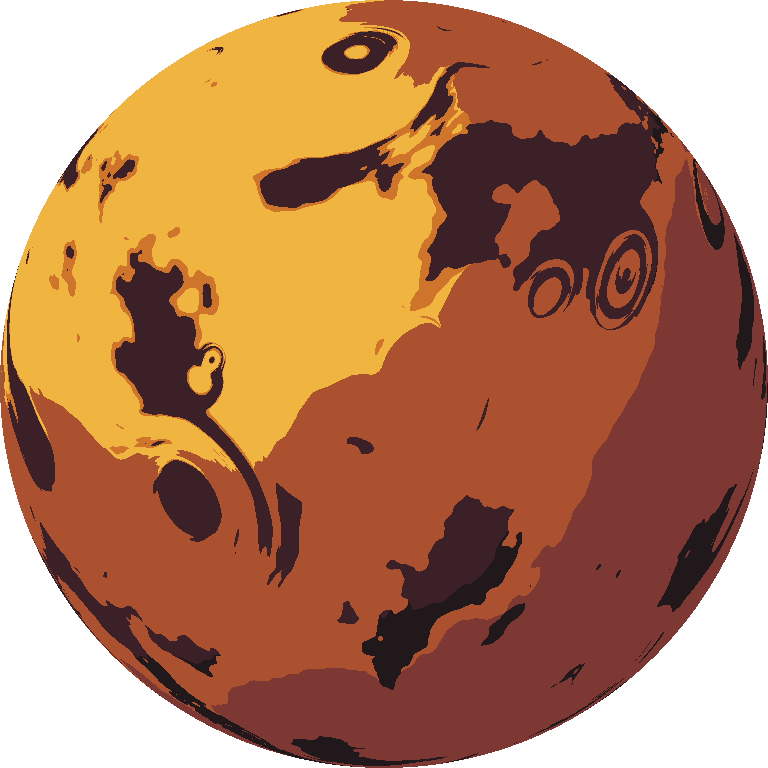
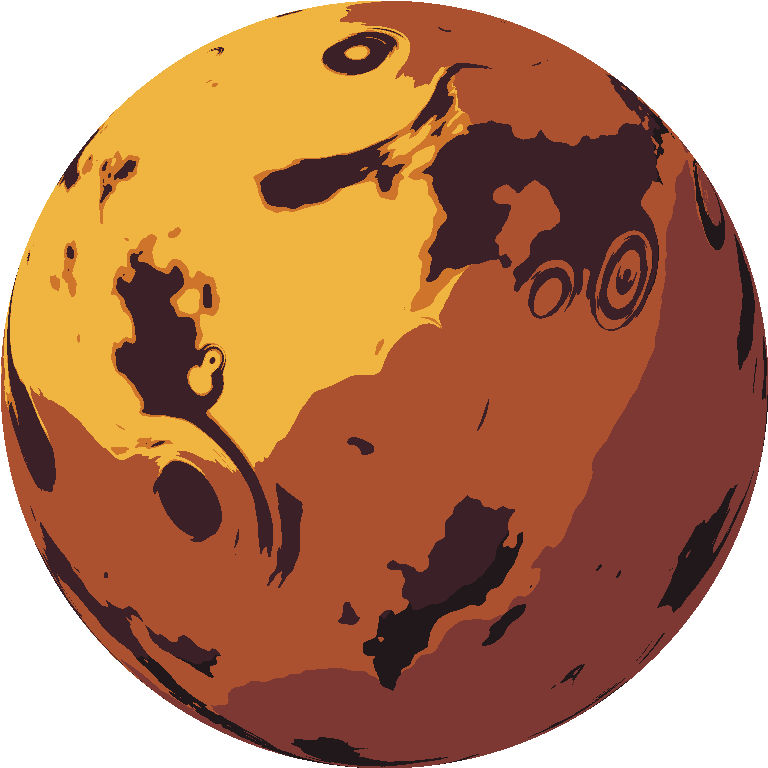
Morning site update 2026-09-22

diff --git a/site.js b/site.js
@@ -1,52 +1,14 @@
-const planetVideo = document.querySelector(".planet-video");
+const planet = document.querySelector(".planet-space picture");
 
-if (planetVideo && !matchMedia("(prefers-reduced-motion: reduce)").matches) {
-  const rotationSpeed = Number(planetVideo.dataset.speed) || 4;
+if (planet && !matchMedia("(prefers-reduced-motion: reduce)").matches) {
   const clockKey = "pixel-planet-started-at";
   let startedAt = Number(sessionStorage.getItem(clockKey));
-
   if (!Number.isFinite(startedAt) || startedAt <= 0 || startedAt > Date.now()) {
     startedAt = Date.now();
     sessionStorage.setItem(clockKey, String(startedAt));
   }
-  const elapsed = (Date.now() - startedAt) / 1000 * rotationSpeed;
-
-  const startPlanet = () => {
-    planetVideo.classList.add("is-ready");
-    planetVideo.play().catch(() => {});
-  };
-
-  planetVideo.addEventListener("loadedmetadata", () => {
-    if (Number.isFinite(planetVideo.duration) && planetVideo.duration > 0) {
-      const resumeAt = elapsed % planetVideo.duration;
-      if (resumeAt > 0.05) {
-        planetVideo.addEventListener("seeked", startPlanet, { once: true });
-        planetVideo.currentTime = resumeAt;
-        return;
-      }
-    }
-    startPlanet();
-  }, { once: true });
-
-  planetVideo.addEventListener("error", () => planetVideo.classList.add("is-error"), { once: true });
-  planetVideo.playbackRate = rotationSpeed;
-  planetVideo.preload = "auto";
-  planetVideo.src = planetVideo.dataset.src;
-
-  document.addEventListener("visibilitychange", () => {
-    if (document.hidden) {
-      planetVideo.pause();
-      return;
-    }
-    if (!Number.isFinite(planetVideo.duration) || planetVideo.duration <= 0) return;
-    const resumeAt = ((Date.now() - startedAt) / 1000 * rotationSpeed) % planetVideo.duration;
-    if (Math.abs(planetVideo.currentTime - resumeAt) > 0.25) {
-      planetVideo.addEventListener("seeked", startPlanet, { once: true });
-      planetVideo.currentTime = resumeAt;
-      return;
-    }
-    startPlanet();
-  });
+  const phase = (Date.now() - startedAt) % 300000;
+  planet.style.animationDelay = `${-phase / 1000}s`;
 }
 
 document.querySelectorAll(".markdown-content h2, .markdown-content h3").forEach((heading, index) => {

diff --git a/style.css b/style.css
@@ -104,7 +104,7 @@ footer { margin-top: 3rem; padding-top: 1rem; border-top: 1px solid #59606b; }
   content: "";
 }
 .space.dim-stars .pixel-star, .space.dim-stars::before { opacity: .18; }
-.space picture, .space .planet-video {
+.space picture {
   position: absolute;
   z-index: 4;
   left: -35vw;
@@ -114,11 +114,13 @@ footer { margin-top: 3rem; padding-top: 1rem; border-top: 1px solid #59606b; }
   overflow: hidden;
   border-radius: 50%;
 }
-.space .planet-video { opacity: 0; image-rendering: pixelated; transition: opacity .15s linear; }
-.space .planet-video.is-ready { opacity: 1; }
-.space .planet-video.is-error { display: none; }
-.space .planet-video.is-error + picture { display: block; }
-.space picture { display: none; }
+.space picture {
+  display: block;
+  image-rendering: pixelated;
+  animation: planet-spin 300s linear infinite;
+  will-change: transform;
+}
+@keyframes planet-spin { to { transform: rotate(360deg); } }
 .space img {
   display: block;
   width: 100%;
@@ -128,15 +130,14 @@ footer { margin-top: 3rem; padding-top: 1rem; border-top: 1px solid #59606b; }
 }
 main, header, footer { text-shadow: 0 1px 4px #000; }
 @media (prefers-reduced-motion: reduce) {
-  .space .planet-video { display: none; }
-  .space picture { display: block; }
+  .space picture { animation: none; }
 }
 @media (max-width: 800px) {
-  .space picture, .space .planet-video { left: -38vw; bottom: -28vh; width: 90vw; }
+  .space picture { left: -38vw; bottom: -28vh; width: 90vw; }
 }
 @media (max-width: 600px) {
   body { padding: 1rem 1rem 2rem; }
   .top-nav { grid-template-columns: repeat(3, minmax(0, 1fr)); }
   h1 { font-size: 1.9rem; }
-  .space picture, .space .planet-video { left: -42vw; bottom: -25vh; width: 95vw; }
+  .space picture { left: -42vw; bottom: -25vh; width: 95vw; }
 }

diff --git a/about.html b/about.html
@@ -5,8 +5,8 @@
   <meta name="viewport" content="width=device-width, initial-scale=1">
   <meta name="theme-color" content="#000000">
   <title>About — Beneke’s corner of the web</title>
-  <link rel="stylesheet" href="style.css?v=7f70fd434d64">
-  <script src="site.js?v=7f70fd434d64" defer></script>
+  <link rel="stylesheet" href="style.css?v=c2fdd2051d17">
+  <script src="site.js?v=c2fdd2051d17" defer></script>
 </head>
 <body>
   <div class="space planet-space planet-original" aria-hidden="true">
@@ -17,17 +17,15 @@
 <span class="pixel-star star-e"></span>
 <span class="pixel-star star-f"></span>
 <span class="pixel-star star-g"></span>
-    <video class="planet-video" data-src="assets/pixel-planet.webm?v=7f70fd434d64" data-speed="4" muted loop playsinline preload="auto"
-      poster="assets/pixel-planet.png?v=7f70fd434d64" aria-hidden="true"></video>
-    <picture><img src="assets/pixel-planet.gif?v=7f70fd434d64" alt=""></picture>
+    <picture><img src="assets/pixel-planet.png?v=c2fdd2051d17" alt=""></picture>
   </div>
   <nav class="top-nav" aria-label="Main navigation">
-    <a href="about.html?v=7f70fd434d64" aria-current="page">About</a>
-<a href="projects.html?v=7f70fd434d64">Projects</a>
-<a href="blog.html?v=7f70fd434d64">Blog</a>
-<a href="teaching.html?v=7f70fd434d64">Teaching</a>
-<a href="music.html?v=7f70fd434d64">Music</a>
-<a href="links.html?v=7f70fd434d64">Links</a>
+    <a href="about.html?v=c2fdd2051d17" aria-current="page">About</a>
+<a href="projects.html?v=c2fdd2051d17">Projects</a>
+<a href="blog.html?v=c2fdd2051d17">Blog</a>
+<a href="teaching.html?v=c2fdd2051d17">Teaching</a>
+<a href="music.html?v=c2fdd2051d17">Music</a>
+<a href="links.html?v=c2fdd2051d17">Links</a>
   </nav>
   <main class="markdown-content">
     <h1 id="about">About</h1>

diff --git a/projects.html b/projects.html
@@ -5,8 +5,8 @@
   <meta name="viewport" content="width=device-width, initial-scale=1">
   <meta name="theme-color" content="#000000">
   <title>Projects — Beneke’s corner of the web</title>
-  <link rel="stylesheet" href="style.css?v=7f70fd434d64">
-  <script src="site.js?v=7f70fd434d64" defer></script>
+  <link rel="stylesheet" href="style.css?v=c2fdd2051d17">
+  <script src="site.js?v=c2fdd2051d17" defer></script>
 </head>
 <body>
   <div class="space planet-space planet-gas-giant" aria-hidden="true">
@@ -17,17 +17,15 @@
 <span class="pixel-star star-e"></span>
 <span class="pixel-star star-f"></span>
 <span class="pixel-star star-g"></span>
-    <video class="planet-video" data-src="assets/gas-giant.webm?v=7f70fd434d64" data-speed="1" muted loop playsinline preload="auto"
-      poster="assets/gas-giant.png?v=7f70fd434d64" aria-hidden="true"></video>
-    <picture><img src="assets/gas-giant.png?v=7f70fd434d64" alt=""></picture>
+    <picture><img src="assets/gas-giant.png?v=c2fdd2051d17" alt=""></picture>
   </div>
   <nav class="top-nav" aria-label="Main navigation">
-    <a href="about.html?v=7f70fd434d64">About</a>
-<a href="projects.html?v=7f70fd434d64" aria-current="page">Projects</a>
-<a href="blog.html?v=7f70fd434d64">Blog</a>
-<a href="teaching.html?v=7f70fd434d64">Teaching</a>
-<a href="music.html?v=7f70fd434d64">Music</a>
-<a href="links.html?v=7f70fd434d64">Links</a>
+    <a href="about.html?v=c2fdd2051d17">About</a>
+<a href="projects.html?v=c2fdd2051d17" aria-current="page">Projects</a>
+<a href="blog.html?v=c2fdd2051d17">Blog</a>
+<a href="teaching.html?v=c2fdd2051d17">Teaching</a>
+<a href="music.html?v=c2fdd2051d17">Music</a>
+<a href="links.html?v=c2fdd2051d17">Links</a>
   </nav>
   <main class="markdown-content">
     <h1 id="projects">Projects</h1>

diff --git a/links.html b/links.html
@@ -5,8 +5,8 @@
   <meta name="viewport" content="width=device-width, initial-scale=1">
   <meta name="theme-color" content="#000000">
   <title>Links — Beneke’s corner of the web</title>
-  <link rel="stylesheet" href="style.css?v=7f70fd434d64">
-  <script src="site.js?v=7f70fd434d64" defer></script>
+  <link rel="stylesheet" href="style.css?v=c2fdd2051d17">
+  <script src="site.js?v=c2fdd2051d17" defer></script>
 </head>
 <body>
   <div class="space planet-space planet-ice-world" aria-hidden="true">
@@ -17,17 +17,15 @@
 <span class="pixel-star star-e"></span>
 <span class="pixel-star star-f"></span>
 <span class="pixel-star star-g"></span>
-    <video class="planet-video" data-src="assets/ice-world.webm?v=7f70fd434d64" data-speed="1" muted loop playsinline preload="auto"
-      poster="assets/ice-world.png?v=7f70fd434d64" aria-hidden="true"></video>
-    <picture><img src="assets/ice-world.png?v=7f70fd434d64" alt=""></picture>
+    <picture><img src="assets/ice-world.png?v=c2fdd2051d17" alt=""></picture>
   </div>
   <nav class="top-nav" aria-label="Main navigation">
-    <a href="about.html?v=7f70fd434d64">About</a>
-<a href="projects.html?v=7f70fd434d64">Projects</a>
-<a href="blog.html?v=7f70fd434d64">Blog</a>
-<a href="teaching.html?v=7f70fd434d64">Teaching</a>
-<a href="music.html?v=7f70fd434d64">Music</a>
-<a href="links.html?v=7f70fd434d64" aria-current="page">Links</a>
+    <a href="about.html?v=c2fdd2051d17">About</a>
+<a href="projects.html?v=c2fdd2051d17">Projects</a>
+<a href="blog.html?v=c2fdd2051d17">Blog</a>
+<a href="teaching.html?v=c2fdd2051d17">Teaching</a>
+<a href="music.html?v=c2fdd2051d17">Music</a>
+<a href="links.html?v=c2fdd2051d17" aria-current="page">Links</a>
   </nav>
   <main class="markdown-content">
     <h1 id="links">Links</h1>

diff --git a/teaching.html b/teaching.html
@@ -5,8 +5,8 @@
   <meta name="viewport" content="width=device-width, initial-scale=1">
   <meta name="theme-color" content="#000000">
   <title>Teaching — Beneke’s corner of the web</title>
-  <link rel="stylesheet" href="style.css?v=7f70fd434d64">
-  <script src="site.js?v=7f70fd434d64" defer></script>
+  <link rel="stylesheet" href="style.css?v=c2fdd2051d17">
+  <script src="site.js?v=c2fdd2051d17" defer></script>
 </head>
 <body>
   <div class="space dim-stars" aria-hidden="true">
@@ -20,12 +20,12 @@
 
   </div>
   <nav class="top-nav" aria-label="Main navigation">
-    <a href="about.html?v=7f70fd434d64">About</a>
-<a href="projects.html?v=7f70fd434d64">Projects</a>
-<a href="blog.html?v=7f70fd434d64">Blog</a>
-<a href="teaching.html?v=7f70fd434d64" aria-current="page">Teaching</a>
-<a href="music.html?v=7f70fd434d64">Music</a>
-<a href="links.html?v=7f70fd434d64">Links</a>
+    <a href="about.html?v=c2fdd2051d17">About</a>
+<a href="projects.html?v=c2fdd2051d17">Projects</a>
+<a href="blog.html?v=c2fdd2051d17">Blog</a>
+<a href="teaching.html?v=c2fdd2051d17" aria-current="page">Teaching</a>
+<a href="music.html?v=c2fdd2051d17">Music</a>
+<a href="links.html?v=c2fdd2051d17">Links</a>
   </nav>
   <main class="markdown-content">
     <h1 id="teaching">Teaching</h1>

diff --git a/music.html b/music.html
@@ -5,8 +5,8 @@
   <meta name="viewport" content="width=device-width, initial-scale=1">
   <meta name="theme-color" content="#000000">
   <title>Music — Beneke’s corner of the web</title>
-  <link rel="stylesheet" href="style.css?v=7f70fd434d64">
-  <script src="site.js?v=7f70fd434d64" defer></script>
+  <link rel="stylesheet" href="style.css?v=c2fdd2051d17">
+  <script src="site.js?v=c2fdd2051d17" defer></script>
 </head>
 <body>
   <div class="space dim-stars" aria-hidden="true">
@@ -20,12 +20,12 @@
 
   </div>
   <nav class="top-nav" aria-label="Main navigation">
-    <a href="about.html?v=7f70fd434d64">About</a>
-<a href="projects.html?v=7f70fd434d64">Projects</a>
-<a href="blog.html?v=7f70fd434d64">Blog</a>
-<a href="teaching.html?v=7f70fd434d64">Teaching</a>
-<a href="music.html?v=7f70fd434d64" aria-current="page">Music</a>
-<a href="links.html?v=7f70fd434d64">Links</a>
+    <a href="about.html?v=c2fdd2051d17">About</a>
+<a href="projects.html?v=c2fdd2051d17">Projects</a>
+<a href="blog.html?v=c2fdd2051d17">Blog</a>
+<a href="teaching.html?v=c2fdd2051d17">Teaching</a>
+<a href="music.html?v=c2fdd2051d17" aria-current="page">Music</a>
+<a href="links.html?v=c2fdd2051d17">Links</a>
   </nav>
   <main class="markdown-content">
     <h1 id="music">Music</h1>

diff --git a/blog.html b/blog.html
@@ -5,8 +5,8 @@
   <meta name="viewport" content="width=device-width, initial-scale=1">
   <meta name="theme-color" content="#000000">
   <title>Blog — Beneke’s corner of the web</title>
-  <link rel="stylesheet" href="style.css?v=7f70fd434d64">
-  <script src="site.js?v=7f70fd434d64" defer></script>
+  <link rel="stylesheet" href="style.css?v=c2fdd2051d17">
+  <script src="site.js?v=c2fdd2051d17" defer></script>
 </head>
 <body>
   <div class="space dim-stars" aria-hidden="true">
@@ -20,12 +20,12 @@
 
   </div>
   <nav class="top-nav" aria-label="Main navigation">
-    <a href="about.html?v=7f70fd434d64">About</a>
-<a href="projects.html?v=7f70fd434d64">Projects</a>
-<a href="blog.html?v=7f70fd434d64" aria-current="page">Blog</a>
-<a href="teaching.html?v=7f70fd434d64">Teaching</a>
-<a href="music.html?v=7f70fd434d64">Music</a>
-<a href="links.html?v=7f70fd434d64">Links</a>
+    <a href="about.html?v=c2fdd2051d17">About</a>
+<a href="projects.html?v=c2fdd2051d17">Projects</a>
+<a href="blog.html?v=c2fdd2051d17" aria-current="page">Blog</a>
+<a href="teaching.html?v=c2fdd2051d17">Teaching</a>
+<a href="music.html?v=c2fdd2051d17">Music</a>
+<a href="links.html?v=c2fdd2051d17">Links</a>
   </nav>
   <main class="markdown-content">
     <h1 id="blog">Blog</h1>

diff --git a/index.html b/index.html
@@ -5,8 +5,8 @@
   <meta name="viewport" content="width=device-width, initial-scale=1">
   <meta name="theme-color" content="#000000">
   <title>Beneke’s corner of the web</title>
-  <link rel="stylesheet" href="style.css?v=7f70fd434d64">
-  <script src="site.js?v=7f70fd434d64" defer></script>
+  <link rel="stylesheet" href="style.css?v=c2fdd2051d17">
+  <script src="site.js?v=c2fdd2051d17" defer></script>
 </head>
 <body>
   <div class="space" aria-hidden="true">
@@ -20,12 +20,12 @@
 
   </div>
   <nav class="top-nav" aria-label="Main navigation">
-    <a href="about.html?v=7f70fd434d64">About</a>
-<a href="projects.html?v=7f70fd434d64">Projects</a>
-<a href="blog.html?v=7f70fd434d64">Blog</a>
-<a href="teaching.html?v=7f70fd434d64">Teaching</a>
-<a href="music.html?v=7f70fd434d64">Music</a>
-<a href="links.html?v=7f70fd434d64">Links</a>
+    <a href="about.html?v=c2fdd2051d17">About</a>
+<a href="projects.html?v=c2fdd2051d17">Projects</a>
+<a href="blog.html?v=c2fdd2051d17">Blog</a>
+<a href="teaching.html?v=c2fdd2051d17">Teaching</a>
+<a href="music.html?v=c2fdd2051d17">Music</a>
+<a href="links.html?v=c2fdd2051d17">Links</a>
   </nav>
   <main class="markdown-content">
     <h1 id="benekes-corner-of-the-web">Beneke’s corner of the web</h1>

diff --git a/build.py b/build.py
@@ -13,9 +13,9 @@ NAV = (("About", "about"), ("Projects", "projects"), ("Blog", "blog"),
        ("Teaching", "teaching"), ("Music", "music"), ("Links", "links"))
 PAGES = ("index", "about", "blog", "projects", "teaching", "music", "links")
 PLANETS = {
-    "original": ("pixel-planet", 4),
-    "gas-giant": ("gas-giant", 1),
-    "ice-world": ("ice-world", 1),
+    "original": "pixel-planet",
+    "gas-giant": "gas-giant",
+    "ice-world": "ice-world",
 }
 
 
@@ -140,12 +140,9 @@ def render_page(output, title, active, body, metadata, version):
     planet_markup = ""
     planet_credit = ""
     if planet in PLANETS:
-        asset, speed = PLANETS[planet]
+        asset = PLANETS[planet]
         poster = Path("assets") / f"{asset}.png"
-        fallback = Path("assets") / ("pixel-planet.gif" if asset == "pixel-planet" else f"{asset}.png")
-        planet_markup = f'''<video class="planet-video" data-src="{versioned_url(Path('assets') / f'{asset}.webm', output, version)}" data-speed="{speed}" muted loop playsinline preload="auto"
-      poster="{versioned_url(poster, output, version)}" aria-hidden="true"></video>
-    <picture><img src="{versioned_url(fallback, output, version)}" alt=""></picture>'''
+        planet_markup = f'''<picture><img src="{versioned_url(poster, output, version)}" alt=""></picture>'''
         planet_credit = f' Planet by <a href="https://github.com/Deep-Fold/PixelPlanets">PixelPlanets</a>.'
     html_title = title if active == "index" else f"{title} — Beneke’s corner of the web"
     document = f'''<!doctype html>
